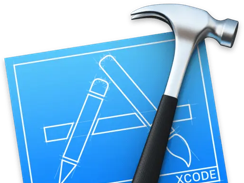
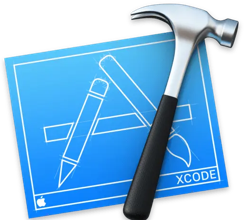
[iWeb] fixed some small formatting issues with WaterMe article

diff --git a/web-root/Jeffrey_Bergier/Apps/Apps.html b/web-root/Jeffrey_Bergier/Apps/Apps.html
@@ -33,10 +33,10 @@ iWebBlogArchivePageTitle = 'Archive';
     <script type="text/javascript" src="../Scripts/iWebSite.js"></script>
     <script type="text/javascript" src="../Scripts/Widgets/SharedResources/WidgetCommon.js"></script>
     <script type="text/javascript" src="../Scripts/Widgets/Navbar/navbar.js"></script>
+    <script type="text/javascript" src="../Scripts/iWebImage.js"></script>
     <script type="text/javascript" src="../Scripts/iWebDebug.js"></script>
     <script type="text/javascript" src="http://www.me.com/1/up/comments/scripts/search.js"></script>
     <script type="text/javascript" src="../Scripts/iWebBlog.js"></script>
-    <script type="text/javascript" src="../Scripts/iWebImage.js"></script>
     <script type="text/javascript" src="../Scripts/Widgets/BlogSummary/BlogSummary.js"></script>
     <script type="text/javascript" src="../Scripts/Widgets/BlogSummary/localizedStrings.js"></script>
     <script type="text/javascript" src="Apps_files/Apps.js"></script>
@@ -112,17 +112,17 @@ Blog Summary Widget
             <div style="clear:both"></div>
           </div>
           <script type="text/javascript"><!--//--><![CDATA[//><!--
-new BlogSummaryWidget('widget1', '../Scripts/Widgets/BlogSummary', '../Scripts/Widgets/SharedResources', '..', {"imageVisibility": true, "excerpt-length": 200, "headerOnTop": false, "htmlTemplate": "<!-- Black Blog Main -->\n<!-- 5186946: Set separator height to 1px for IE6 -->\n<div id='$WIDGET_ID-item-template' style='display:none; position: relative'>\n<div id='$WIDGET_ID-image' class='Summary_Image'><a href='$link$'><div id='$WIDGET_ID-image-group' style='position:relative' ><\/div><\/a><\/div>\n<div id='$WIDGET_ID-header'>\n<div id='$WIDGET_ID-title' class='Summary_Title'><a href='$link$'><span class='bl-value-title'><\/span><\/a><\/div>\n<div id='$WIDGET_ID-date' class='Summary_Date'><span class='bl-value-date'><\/span><\/div>\n<\/div>\n<div id='$WIDGET_ID-excerpt' class='Summary_Body'><span class='bl-value-excerpt'><\/span><\/div>\n<div style=\"padding: 5px 0 0 0;\">\n<div id='$WIDGET_ID-link' class='Summary_Read_More'><a href='$link$'>Read more...<\/a>\n<span id='$WIDGET_ID-comment-field' class='comment-field' style='display:none'> | <a href='$comment-link$'><span class='bl-value-comment-count'><\/span><\/a><\/span><\/div><\/div>\n<div style='clear:both'><\/div>\n<\/div>\n<div id='$WIDGET_ID-separator-template' class='Summary_Separator' style='display:none; line-height: 1px'>\n<div style=\"background-color: #999; margin-bottom: 10px; height: 1px;\"> &nbsp; <\/div>\n<\/div>", "imageSizeOverride": "", "extraSpace": 27, "imagePosition": "Right", "photoProportions": "Landscape", "imageOutside": false, "imageSize": 28, "rss-for-archive": false, "upgrades": {"styleThreeWidthScale": true}});
+new BlogSummaryWidget('widget1', '../Scripts/Widgets/BlogSummary', '../Scripts/Widgets/SharedResources', '..', {"imageVisibility": true, "excerpt-length": 200, "headerOnTop": false, "htmlTemplate": "<!-- Black Blog Main -->\n<!-- 5186946: Set separator height to 1px for IE6 -->\n<div id='$WIDGET_ID-item-template' style='display:none; position: relative'>\n<div id='$WIDGET_ID-image' class='Summary_Image'><a href='$link$'><div id='$WIDGET_ID-image-group' style='position:relative' ><\/div><\/a><\/div>\n<div id='$WIDGET_ID-header'>\n<div id='$WIDGET_ID-title' class='Summary_Title'><a href='$link$'><span class='bl-value-title'><\/span><\/a><\/div>\n<div id='$WIDGET_ID-date' class='Summary_Date'><span class='bl-value-date'><\/span><\/div>\n<\/div>\n<div id='$WIDGET_ID-excerpt' class='Summary_Body'><span class='bl-value-excerpt'><\/span><\/div>\n<div style=\"padding: 5px 0 0 0;\">\n<div id='$WIDGET_ID-link' class='Summary_Read_More'><a href='$link$'>Read more...<\/a>\n<span id='$WIDGET_ID-comment-field' class='comment-field' style='display:none'> | <a href='$comment-link$'><span class='bl-value-comment-count'><\/span><\/a><\/span><\/div><\/div>\n<div style='clear:both'><\/div>\n<\/div>\n<div id='$WIDGET_ID-separator-template' class='Summary_Separator' style='display:none; line-height: 1px'>\n<div style=\"background-color: #999; margin-bottom: 10px; height: 1px;\"> &nbsp; <\/div>\n<\/div>", "imageSizeOverride": "", "extraSpace": 0, "imagePosition": "Right", "photoProportions": "Square", "sfr-stroke": "new IWEmptyStroke()", "imageOutside": false, "imageSize": 28, "rss-for-archive": false, "upgrades": {"styleThreeWidthScale": true}});
 //--><!]]></script>
-          <div style="height: 184px; width: 244px;  height: 184px; left: 35px; position: absolute; top: -50px; width: 244px; z-index: 1; " class="tinyText reflection_0">
+          <div style="height: 221px; width: 244px;  height: 221px; left: 35px; position: absolute; top: -50px; width: 244px; z-index: 1; " class="tinyText reflection_0">
             <div style="position: relative; width: 244px; ">
-              <img src="Apps_files/shapeimage_3.png" alt="" style="height: 183px; left: 0px; margin-top: 1px; position: absolute; top: 0px; width: 244px; " />
+              <img src="Apps_files/shapeimage_3.png" alt="" style="height: 220px; left: 0px; margin-top: 1px; position: absolute; top: 0px; width: 244px; " />
             </div>
           </div>
           <a href="http://www.jeffburg.com/Jeffrey_Bergier/Apps/rss.xml" title="http://www.jeffburg.com/Jeffrey_Bergier/Apps/rss.xml"><img src="Apps_files/RSS_white.png" alt="Subscribe to RSS Feed" style="border: none; height: 36px; left: 310px; position: absolute; top: 158px; width: 109px; z-index: 1; " />
 
 </a>
-          <div style="height: 0px; line-height: 0px; " class="spacer"> </div>
+          <div style="height: 53px; line-height: 53px; " class="spacer"> </div>
         </div>
         <div style="height: 150px; margin-left: 0px; position: relative; width: 700px; z-index: 15; " id="footer_layer">
           <div style="height: 0px; line-height: 0px; " class="bumper"> </div>

diff --git a/web-root/Jeffrey_Bergier/Apps/Entries/2016/4/15_WaterMe__Gardening_Reminders_files/15_WaterMe__Gardening_Reminders.js b/web-root/Jeffrey_Bergier/Apps/Entries/2016/4/15_WaterMe__Gardening_Reminders_files/15_WaterMe__Gardening_Reminders.js
@@ -6,6 +6,6 @@ function hostedOnDM()
 {return false;}
 function onPageLoad()
 {dynamicallyPopulate();loadMozillaCSS('15_WaterMe__Gardening_Reminders_files/15_WaterMe__Gardening_RemindersMoz.css')
-adjustLineHeightIfTooBig('id1');adjustFontSizeIfTooBig('id1');adjustLineHeightIfTooBig('id2');adjustFontSizeIfTooBig('id2');adjustLineHeightIfTooBig('id3');adjustFontSizeIfTooBig('id3');adjustLineHeightIfTooBig('id4');adjustFontSizeIfTooBig('id4');adjustLineHeightIfTooBig('id6');adjustFontSizeIfTooBig('id6');adjustLineHeightIfTooBig('id7');adjustFontSizeIfTooBig('id7');Widget.onload();fixupAllIEPNGBGs();fixAllIEPNGs('../../../../Media/transparent.gif');fixupIECSS3Opacity('id5');BlogFixupPreviousNext();applyEffects()}
+adjustLineHeightIfTooBig('id1');adjustFontSizeIfTooBig('id1');adjustLineHeightIfTooBig('id2');adjustFontSizeIfTooBig('id2');adjustLineHeightIfTooBig('id3');adjustFontSizeIfTooBig('id3');adjustLineHeightIfTooBig('id4');adjustFontSizeIfTooBig('id4');adjustLineHeightIfTooBig('id6');adjustFontSizeIfTooBig('id6');adjustLineHeightIfTooBig('id7');adjustFontSizeIfTooBig('id7');Widget.onload();fixAllIEPNGs('../../../../Media/transparent.gif');fixupIECSS3Opacity('id5');BlogFixupPreviousNext();applyEffects()}
 function onPageUnload()
 {Widget.onunload();}

diff --git a/web-root/Jeffrey_Bergier/Apps/Apps_files/Apps.js b/web-root/Jeffrey_Bergier/Apps/Apps_files/Apps.js
@@ -8,6 +8,6 @@ function photocastSubscribe()
 {photocastHelper("http://www.jeffburg.com/Jeffrey_Bergier/Apps/rss.xml");}
 function onPageLoad()
 {loadMozillaCSS('Apps_files/AppsMoz.css')
-adjustLineHeightIfTooBig('id1');adjustFontSizeIfTooBig('id1');adjustLineHeightIfTooBig('id2');adjustFontSizeIfTooBig('id2');detectBrowser();adjustLineHeightIfTooBig('id4');adjustFontSizeIfTooBig('id4');Widget.onload();fixAllIEPNGs('../Media/transparent.gif');fixupAllIEPNGBGs();fixupIECSS3Opacity('id3');applyEffects()}
+adjustLineHeightIfTooBig('id1');adjustFontSizeIfTooBig('id1');adjustLineHeightIfTooBig('id2');adjustFontSizeIfTooBig('id2');detectBrowser();adjustLineHeightIfTooBig('id4');adjustFontSizeIfTooBig('id4');Widget.onload();fixupAllIEPNGBGs();fixAllIEPNGs('../Media/transparent.gif');fixupIECSS3Opacity('id3');applyEffects()}
 function onPageUnload()
 {Widget.onunload();}
